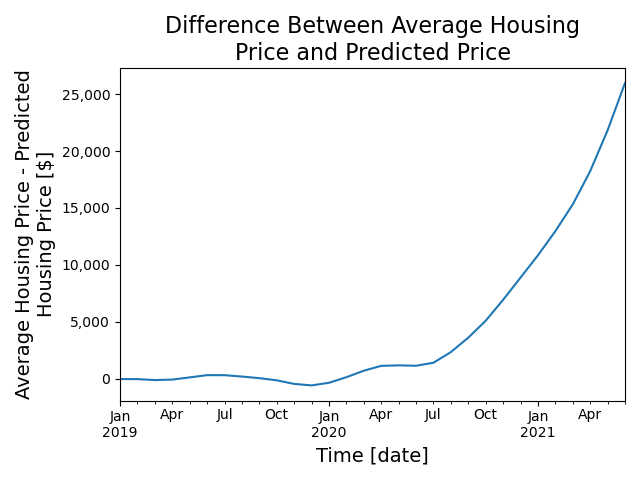
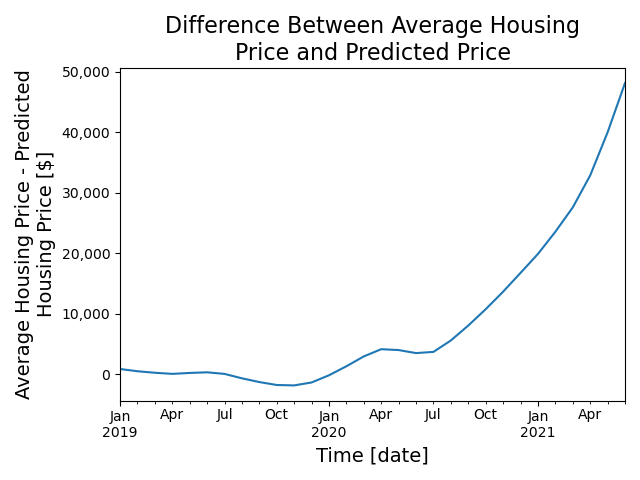
update covid death and confirmed cases

diff --git a/main.py b/main.py
@@ -9,44 +9,57 @@ from textwrap import wrap
 
 def covid(df_z,df_p,df_d,df_c):
     #pre processing
-    df_z.drop(df_z.iloc[:, 0:8], axis = 1, inplace = True)
-    #print(df_z)
+    df_z.drop(df_z.iloc[:, 0:5], axis = 1, inplace = True)
+    df_z.drop(df_z.iloc[:, 1:3], axis=1, inplace=True)
 
     #rearrange columns
+    #dz
     cols = df_z.columns.tolist()
-    cols = cols[-30:]+cols[0:1]
-    df_z = df_z[cols]
-    #print(df_z)
+    cols = cols[-30:]+cols[0:1] #chose data and state
+    df_z_average= df_z[cols]
     for col in cols[:-1]:
-        df_z[col] = df_z[col].astype('float')
+        df_z_average[col] = df_z_average[col].astype('float')
+    #dc and d_d
 
     #arrange back and transpose
     cols = cols[-1:] + cols[0:-1]
-    df_z = df_z[cols]
-    df_z_T = df_z.T
+    df_z_average = df_z_average[cols]
+    df_z_average_T = df_z_average.T
 
     #remove header
-    new_header = df_z_T.iloc[0]
-    df_z_T = df_z_T[1:]
-    df_z_T.columns = new_header
+    new_header = df_z_average_T.iloc[0]
+    df_z_average_T = df_z_average_T[1:]
+    df_z_average_T.columns = new_header
 
     #calculate average
-    df_z_T.index = pd.to_datetime(df_z_T.index)
-    df_z_T["average"] = df_z_T.mean(axis=1)
-
-    #linear regression
-    date_converted = np.array(df_z_T.index.map(dt.datetime.toordinal)).reshape(-1,1)
-    date_pre = date_converted[:15] #up to 2020/3
+    df_z_average_T.index = pd.to_datetime(df_z_average_T.index)
+    df_z_average_T["average"] = df_z_average_T.mean(axis=1)
+    # linear regression
+    date_converted = np.array(df_z_average_T.index.map(dt.datetime.toordinal)).reshape(-1, 1)
+    date_pre = date_converted[:15]  # up to 2020/3
     linear_regressor = LinearRegression()
-    linear_regressor.fit(date_pre, df_z_T["average"][:15])
+    linear_regressor.fit(date_pre, df_z_average_T["average"][:15])
     y_pred = linear_regressor.predict(date_converted)
     y_pred = np.expand_dims(y_pred, axis=1)
-    df_z_T['predicted'] = y_pred
-    df_z_T['difference'] = df_z_T["average"]-df_z_T['predicted']
+    df_z_average_T['predicted'] = y_pred
+    df_z_average_T['difference'] = df_z_average_T["average"] - df_z_average_T['predicted']
+
+    # plot covid death
+    df_c.drop(["countyFIPS", "StateFIPS"], axis=1, inplace=True)
+    df_d.drop(["countyFIPS", "StateFIPS"], axis=1, inplace=True)
+    df_c_average = df_c[1:].groupby("State").mean()
+    df_d_average = df_d[1:].groupby("State").mean()
+    df_c_average_T = df_c_average.T
+    df_d_average_T = df_d_average.T
+    #calculate average
+    df_c_average_T.index = pd.to_datetime(df_c_average_T.index)
+    df_c_average_T["average"] = df_c_average_T.mean(axis=1)
+    df_d_average_T.index = pd.to_datetime(df_d_average_T.index)
+    df_d_average_T["average"] = df_d_average_T.mean(axis=1)
 
 
     #plot average
-    average_plot = df_z_T[['average','predicted']]
+    average_plot = df_z_average_T[['average','predicted']]
     fig, ax = plt.subplots()
     #fig =  average_plot.plot( )
     styles = ['b-',  'r--']
@@ -63,7 +76,7 @@ def covid(df_z,df_p,df_d,df_c):
     plt.savefig("image1.png")
 
     # plot difference
-    diff_plot = df_z_T['difference']
+    diff_plot = df_z_average_T['difference']
     fig2, ax2 = plt.subplots()
     ax2.get_yaxis().set_major_formatter(
         matplotlib.ticker.FuncFormatter(lambda x, p: format(int(x), ',')))
@@ -73,7 +86,22 @@ def covid(df_z,df_p,df_d,df_c):
     diff_plot.plot()
     plt.tight_layout()
     plt.savefig("image2.png")
-    plt.show()
+    #plt.show()
+
+
+
+
+    df_p.drop(df_p.iloc[:, 0:1], axis = 1, inplace = True)
+    df_p = df_p[df_p["population"]>0]
+    df_p_mean = df_p.groupby("State").mean()
+
+
+    df_c_mean = df_c.groupby("State").mean()
+    df_d_mean = df_d.groupby("State").mean()
+
+
+
+
 
 
 
@@ -81,7 +109,7 @@ def covid(df_z,df_p,df_d,df_c):
 
 
 if __name__ == '__main__':
-    real = True
+    real =False
     generate = False
 
     # generate

diff --git a/README.md b/README.md
@@ -44,6 +44,7 @@ Figure 2. Difference Between Average Housing Price and Predicted Price
 It is even more obvious if we plot the difference between the average price with the predicted value from linear regression model, as shown in Figure 2.
 The difference is close to zero till Jan 2020. Then it slightly increases upto March 2020. With Stay-at-Home order in March, the difference stays the same till July, 2020. Then it increases significantly.
 
+
 ##Part 6: Conclusion
 From this preliminary analysis, we can clearly see the correlation between Covid 19 and the housing market. Due to time limitation, I only get chance to analyze the national trend, but further analysis can be done with these data sets.
 
